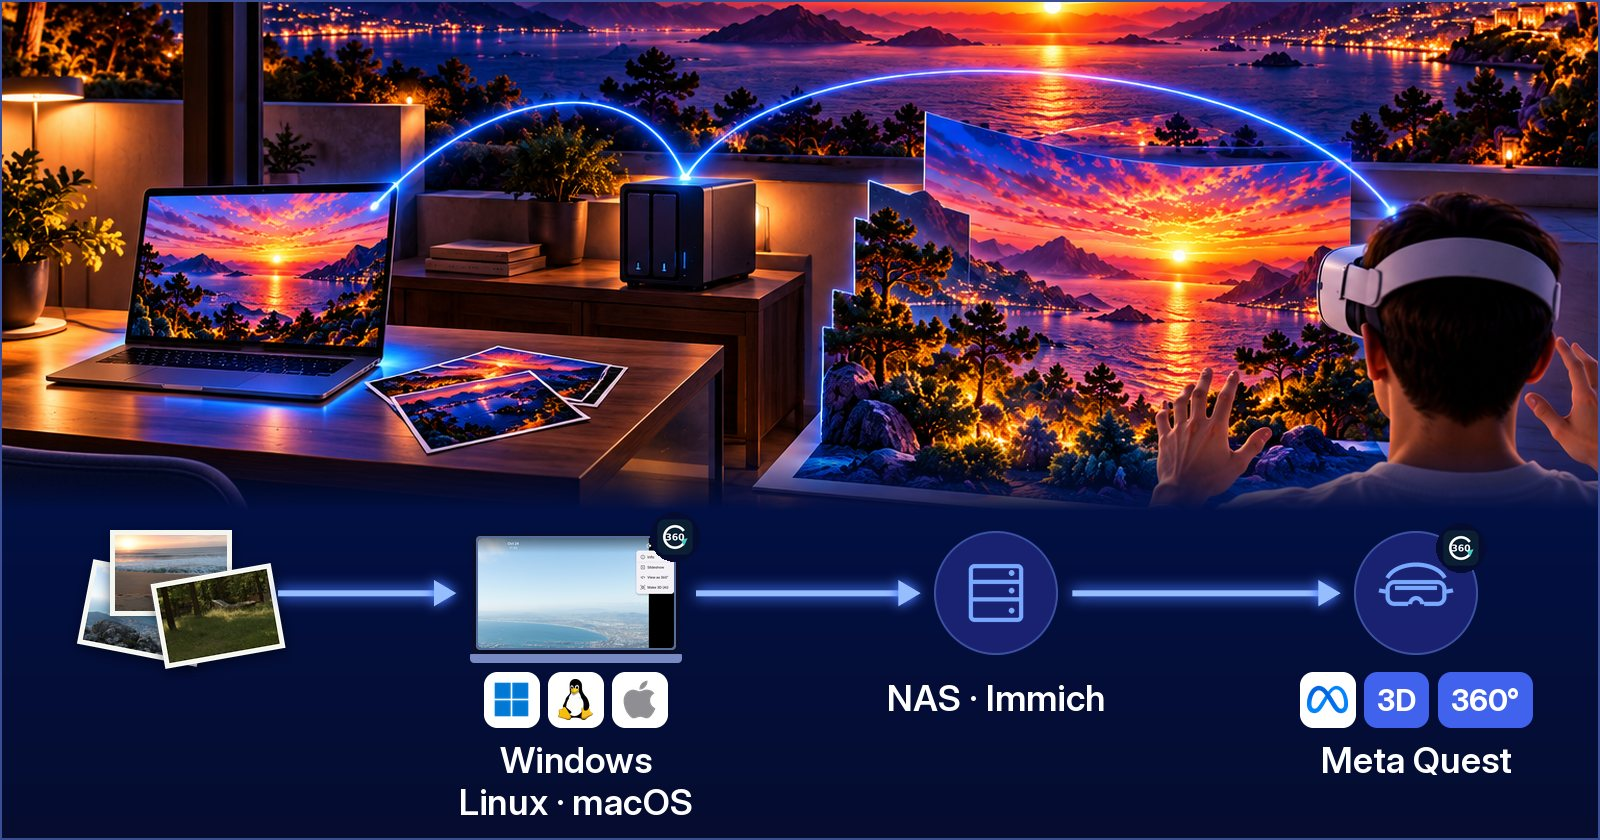
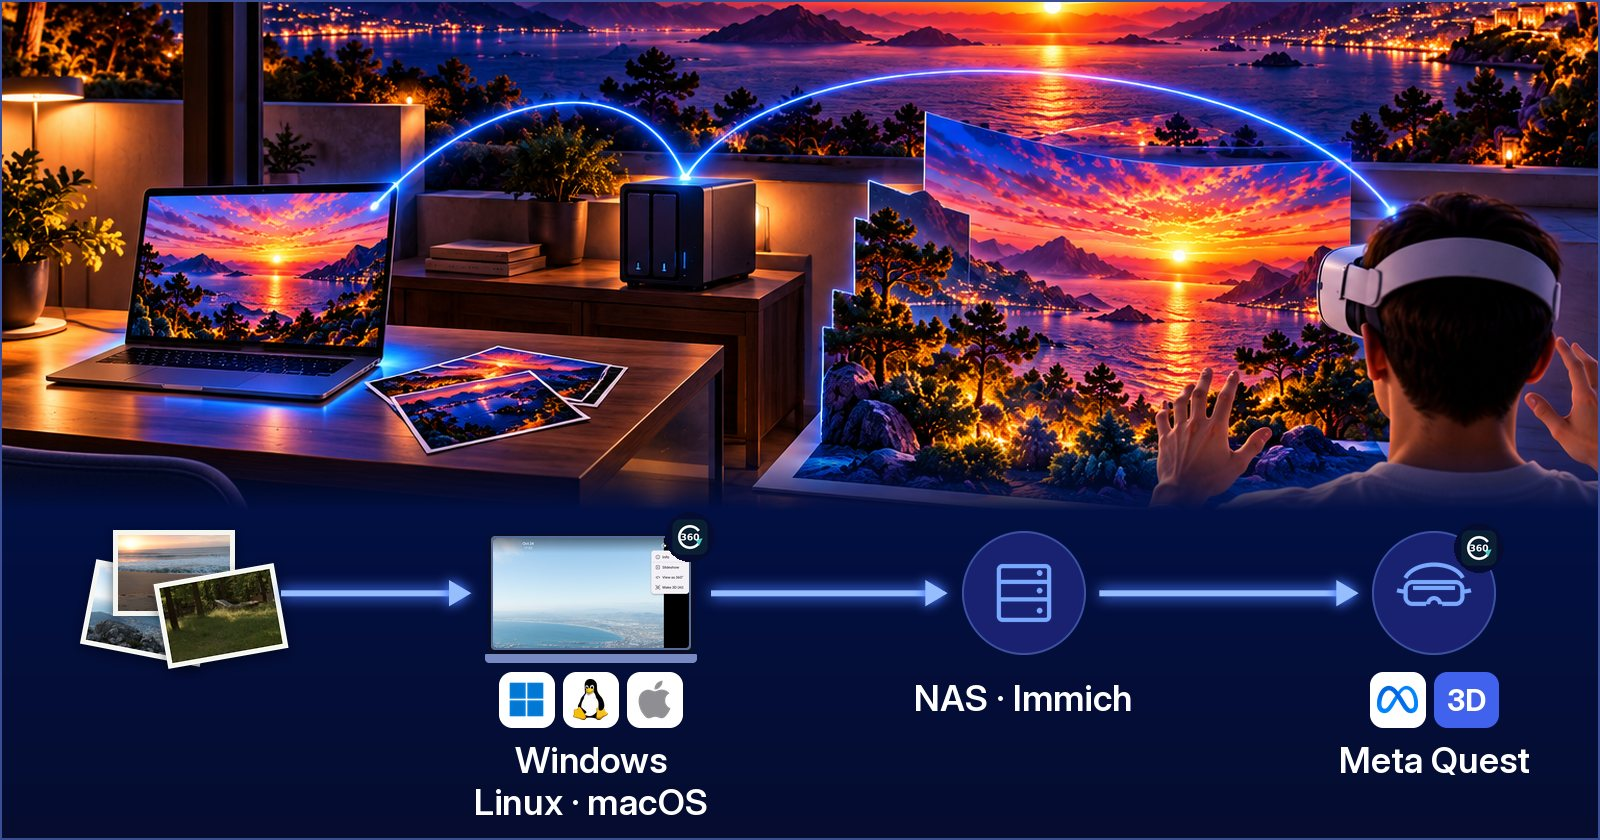
README.md: use case cards, a second reading
An iPhone shares only while the app is on screen. LG TVs read SMB from webOS 22. The
raw 360° card names the files that are stitched (.insp, .insv, .360, .osv), the splat
card says binary .ply, and the 3D card says the Immich server holds the AI versions
with "Also back up AI versions" on. Two alt texts now describe only what is drawn, the
credits name the CC0 photos of two cards, and the headset of the 3D card loses its
"360°" chip, which could read as panoramas made on a Mac.

diff --git a/README.md b/README.md
@@ -100,7 +100,7 @@ Install Immuch360 on each screen you watch on: each one reads your sources itsel
 
 **You need:** a NAS with an SMB or WebDAV share, and Immuch360 on each screen you watch on.
 
-Add the share on each screen, and each one plays the photos and videos where they sit, nothing copied: phones, tablets, Android TV, a Meta Quest, Windows, Linux and macOS computers, and LG TVs signed in to your Immich server. A 360° photo turns as a sphere on the phone and the TV, and surrounds you in the headset. How to: [Play the files of a NAS, a computer, a media server or Plex](#play-the-files-of-a-nas-a-computer-a-media-server-or-plex).
+Add the share on each screen, and each one plays the photos and videos where they sit, nothing copied: phones, tablets, Android TV, a Meta Quest, Windows, Linux and macOS computers, and LG TVs signed in to your Immich server (SMB from webOS 22). A 360° photo turns as a sphere on the phone and the TV, and surrounds you in the headset. How to: [Play the files of a NAS, a computer, a media server or Plex](#play-the-files-of-a-nas-a-computer-a-media-server-or-plex).
 
 #### Your Immich server on every screen, signed in from your phone
 
@@ -118,7 +118,7 @@ On the phone, Immuch360 keeps the whole Immich mobile app, adds its 360°, VR180
   <img src=".github/readme/usecases/uc-03-ai3d.jpg" width="720" alt="Illustration with a real capture of the app: a laptop running Immuch360 beside printed photos and a NAS, and a person seen from behind in a headset running Immuch360, before one of those landscapes standing in relief">
 </p>
 
-**You need:** Immuch360 on a Windows, Linux or macOS computer and in a Meta Quest, with your NAS or your Immich server between them.
+**You need:** Immuch360 on a Windows, Linux or macOS computer and in a Meta Quest, with your NAS between them, or your Immich server with "Also back up AI versions" on.
 
 The computer itself turns your photos into 3D photos and 3D scenes, and into 360° panoramas with a graphics card of 8 GB on Windows or Linux, and saves them next to the originals. The headset shows a 3D photo in true 3D, puts a scene in your room and a panorama all around you; phones and TVs open the panoramas in their 360° viewer. How to: [Turn one photo into 3D, a scene, a panorama](#turn-one-photo-into-3d-a-scene-a-panorama).
 
@@ -140,7 +140,7 @@ The phone shows the drone's live video and relays it, over your Wi-Fi or its own
 
 **You need:** an Insta360, GoPro MAX or DJI Osmo 360 camera, your NAS, and Immuch360 on the screens: phones, tablets, Android TV, a Meta Quest, Windows.
 
-Copy the raw files from the camera's card to an SMB or WebDAV share of your NAS, as they are; an Immich server takes the Insta360 ones too. Each screen stitches them as they play, with the calibration written in each file, and nothing is exported in the camera's app first. How to: [Open the raw files of 360° cameras](#open-the-raw-files-of-360-cameras).
+Copy the .insp, .insv, .360 or .osv files from the camera's card to an SMB or WebDAV share of your NAS, as they are; an Immich server takes the Insta360 ones too. Each screen stitches them as they play, with the calibration written in each file, and nothing is exported in the camera's app first. How to: [Open the raw files of 360° cameras](#open-the-raw-files-of-360-cameras).
 
 #### Your Plex and DLNA servers on the TV and in the headset
 
@@ -160,12 +160,12 @@ Plex gives the original files of your libraries, so a 360° video stays 360°, a
 
 **You need:** Immuch360 on an Android phone, an iPhone or a Windows computer, and in a Meta Quest, on the same home Wi-Fi.
 
-Turn on "Share this phone on the network" on the phone, or "Share this computer on the network" on the computer, and the headset plays its photos and videos, the 360° ones all around you: no server, no NAS, no upload. On an iPhone, the share runs while the app is open. How to: [Share this phone on the network](docs/immuch360/user-guide.md#share-this-phone-on-the-network).
+Turn on "Share this phone on the network" on the phone, or "Share this computer on the network" on the computer, and the headset plays its photos and videos, the 360° ones all around you: no server, no NAS, no upload. On an iPhone, the share runs while the app is on screen. How to: [Share this phone on the network](docs/immuch360/user-guide.md#share-this-phone-on-the-network).
 
 #### Your Tapo cameras on the TV and in the headset
 
 <p align="center">
-  <img src=".github/readme/usecases/uc-08-tapo.jpg" width="720" alt="Illustration, not a capture: a home camera by the window films the garden, and a TV, a phone, a headset worn on the sofa and a laptop, each running Immuch360, show that one view">
+  <img src=".github/readme/usecases/uc-08-tapo.jpg" width="720" alt="Illustration, not a capture: a home camera by the window films the garden, and a TV, a phone, a headset worn in the room and a laptop, each running Immuch360, show that one view">
 </p>
 
 **You need:** Tapo cameras on your home network, and Immuch360 on an Android phone, an Android TV, a Meta Quest or a Windows computer.
@@ -175,10 +175,10 @@ Each screen shows a camera live and plays the recordings of its memory card day 
 #### Gaussian splats in your room, in a Meta Quest 3 or 3S (experimental)
 
 <p align="center">
-  <img src=".github/readme/usecases/uc-09-splats.jpg" width="720" alt="Illustration, not a capture: in a living room, a person seen from behind in a headset running Immuch360 stands before a life size fountain captured as a splat by another app and opened from a NAS">
+  <img src=".github/readme/usecases/uc-09-splats.jpg" width="720" alt="Illustration, not a capture: in a living room, a person seen from behind in a headset running Immuch360 stands before a life size fountain of glowing light, opened from a NAS on a shelf">
 </p>
 
-**You need:** a splat made with Polycam, Scaniverse, Luma or another tool, as a .spz or .ply file on your NAS or in the headset, and Immuch360 in a Meta Quest 3 or 3S.
+**You need:** a splat made with Polycam, Scaniverse, Luma or another tool, as a .spz or binary .ply file on your NAS or in the headset, and Immuch360 in a Meta Quest 3 or 3S.
 
 The headset sets the place or the object at its size, in front of you or all around you: walk around it, glide through it with the left thumbstick, turn with the right one. Gaussian splats use an experimental API of the Meta Spatial SDK, which Meta neither supports nor warrants: any defect is Immuch360's own. How to: [Explore Gaussian splats in a Meta Quest 3 or 3S](#explore-gaussian-splats-in-a-meta-quest-3-or-3s).
 
@@ -860,7 +860,7 @@ The AI features run models and engines made by others, downloaded only when you 
 
 The 360° LoRA of nomadoor is Apache 2.0 on its card and was trained on CC0 and public domain images, with a part under CC BY: the attribution of that part comes in a later version of MODEL-LICENSES.md. Nothing here is under a non commercial licence, and nothing needs CUDA. ONNX Runtime and LiteRT have other libraries built in, listed in their notices, among them Eigen under the MPL 2.0, a weak copyleft licence.
 
-The captures of this page are real captures of the app: the phone ones on the Android build in an emulator, the Android TV ones on the Google TV emulator, the LG and Samsung ones in a browser that stands in for the TV, the Windows ones on a Windows 11 PC and the Meta Quest window in a Quest 3, all with CC0 panoramas from [Poly Haven](https://polyhaven.com); the immersive captures of the headset were taken on a Quest 3 with the author's own media, and the iPad one in the iPad simulator, with a CC0 Poly Haven panorama. The pictures of the AI creator are real outputs of the app, made from CC0 photos of Poly Haven, with two real captures of the Windows app. The opening image and the pictures of the TV, the sign in, the rotation, the cameras and the drone are illustrations made for the project: they show no screen of the app, no logo of another company and no face. The use case cards set such an illustration above a row drawn for the project, with the platform logos, the app's icon and, in two cards, real captures of the app; besides the platform logos, they show no logo of another company and no face. Each image, with its source, date and licence, is listed in [CAPTURES.md](.github/readme/CAPTURES.md).
+The captures of this page are real captures of the app: the phone ones on the Android build in an emulator, the Android TV ones on the Google TV emulator, the LG and Samsung ones in a browser that stands in for the TV, the Windows ones on a Windows 11 PC and the Meta Quest window in a Quest 3, all with CC0 panoramas from [Poly Haven](https://polyhaven.com); the immersive captures of the headset were taken on a Quest 3 with the author's own media, and the iPad one in the iPad simulator, with a CC0 Poly Haven panorama. The pictures of the AI creator are real outputs of the app, made from CC0 photos of Poly Haven, with two real captures of the Windows app. The opening image and the pictures of the TV, the sign in, the rotation, the cameras and the drone are illustrations made for the project: they show no screen of the app, no logo of another company and no face. The use case cards set such an illustration above a row drawn for the project, with the platform logos, the app's icon, real captures of the app in two cards and CC0 photos of Poly Haven in two; besides the platform logos, they show no logo of another company and no face. Each image, with its source, date and licence, is listed in [CAPTURES.md](.github/readme/CAPTURES.md).
 
 ## Roadmap
 
